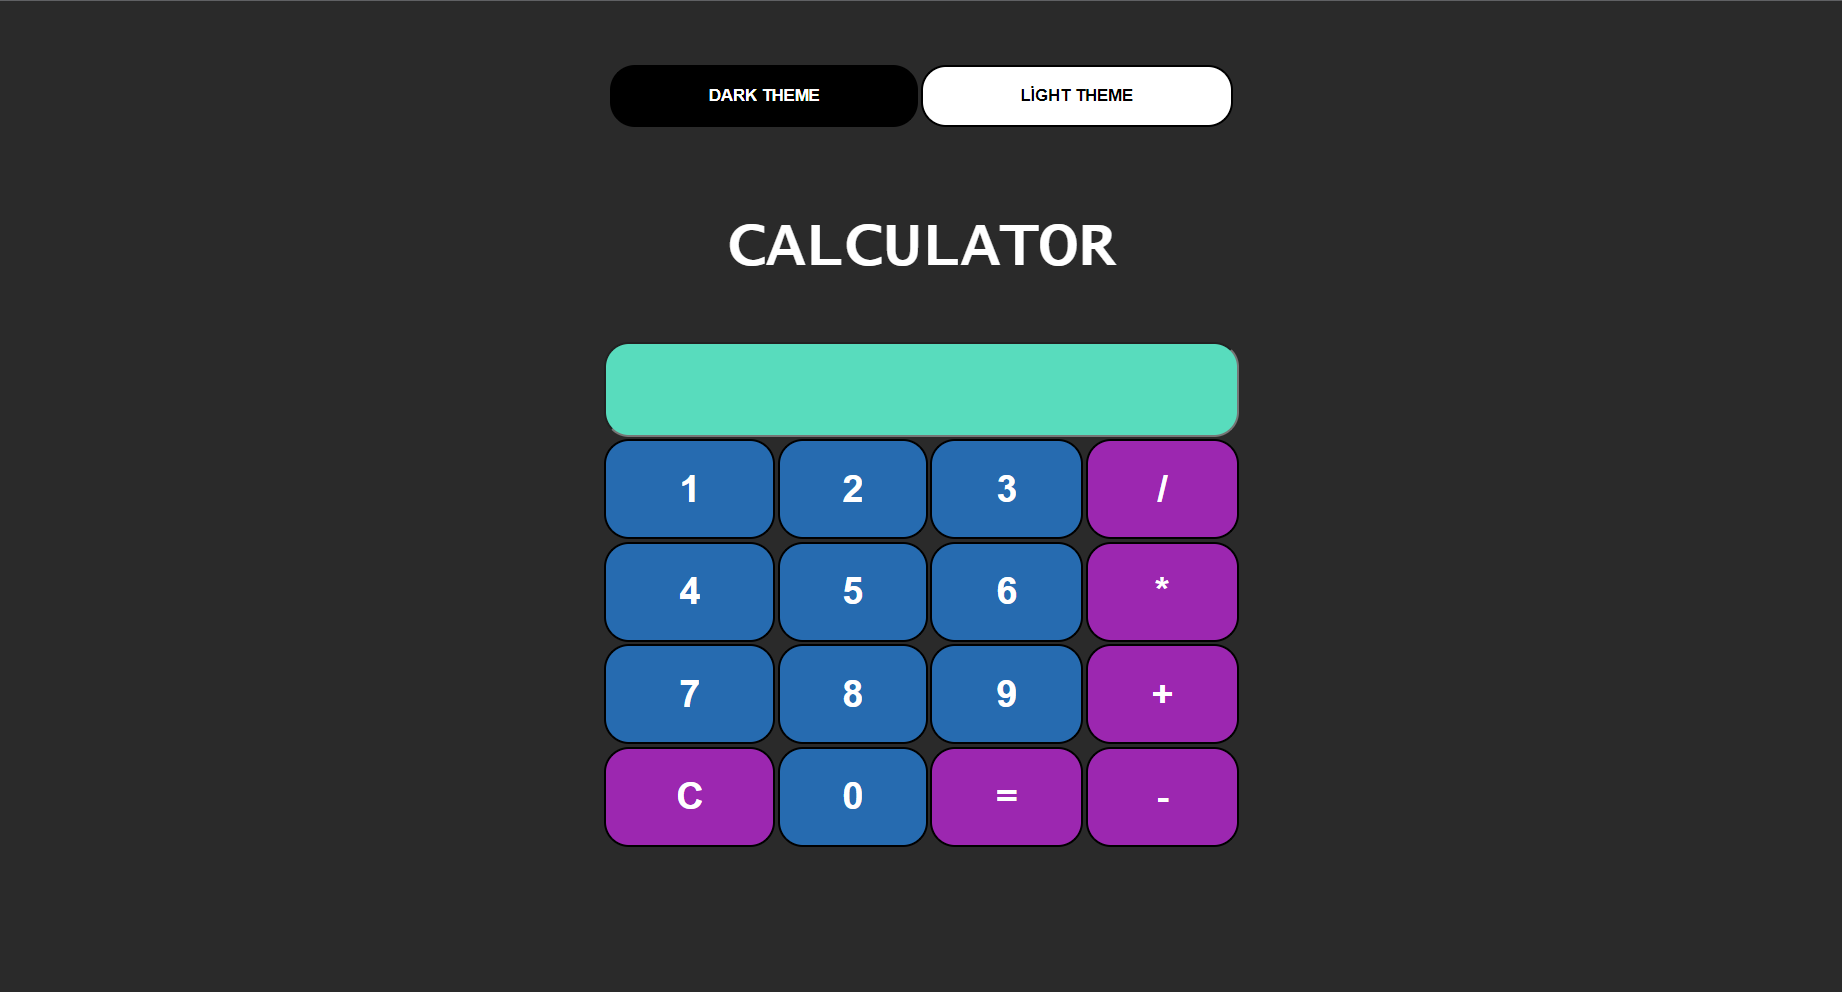
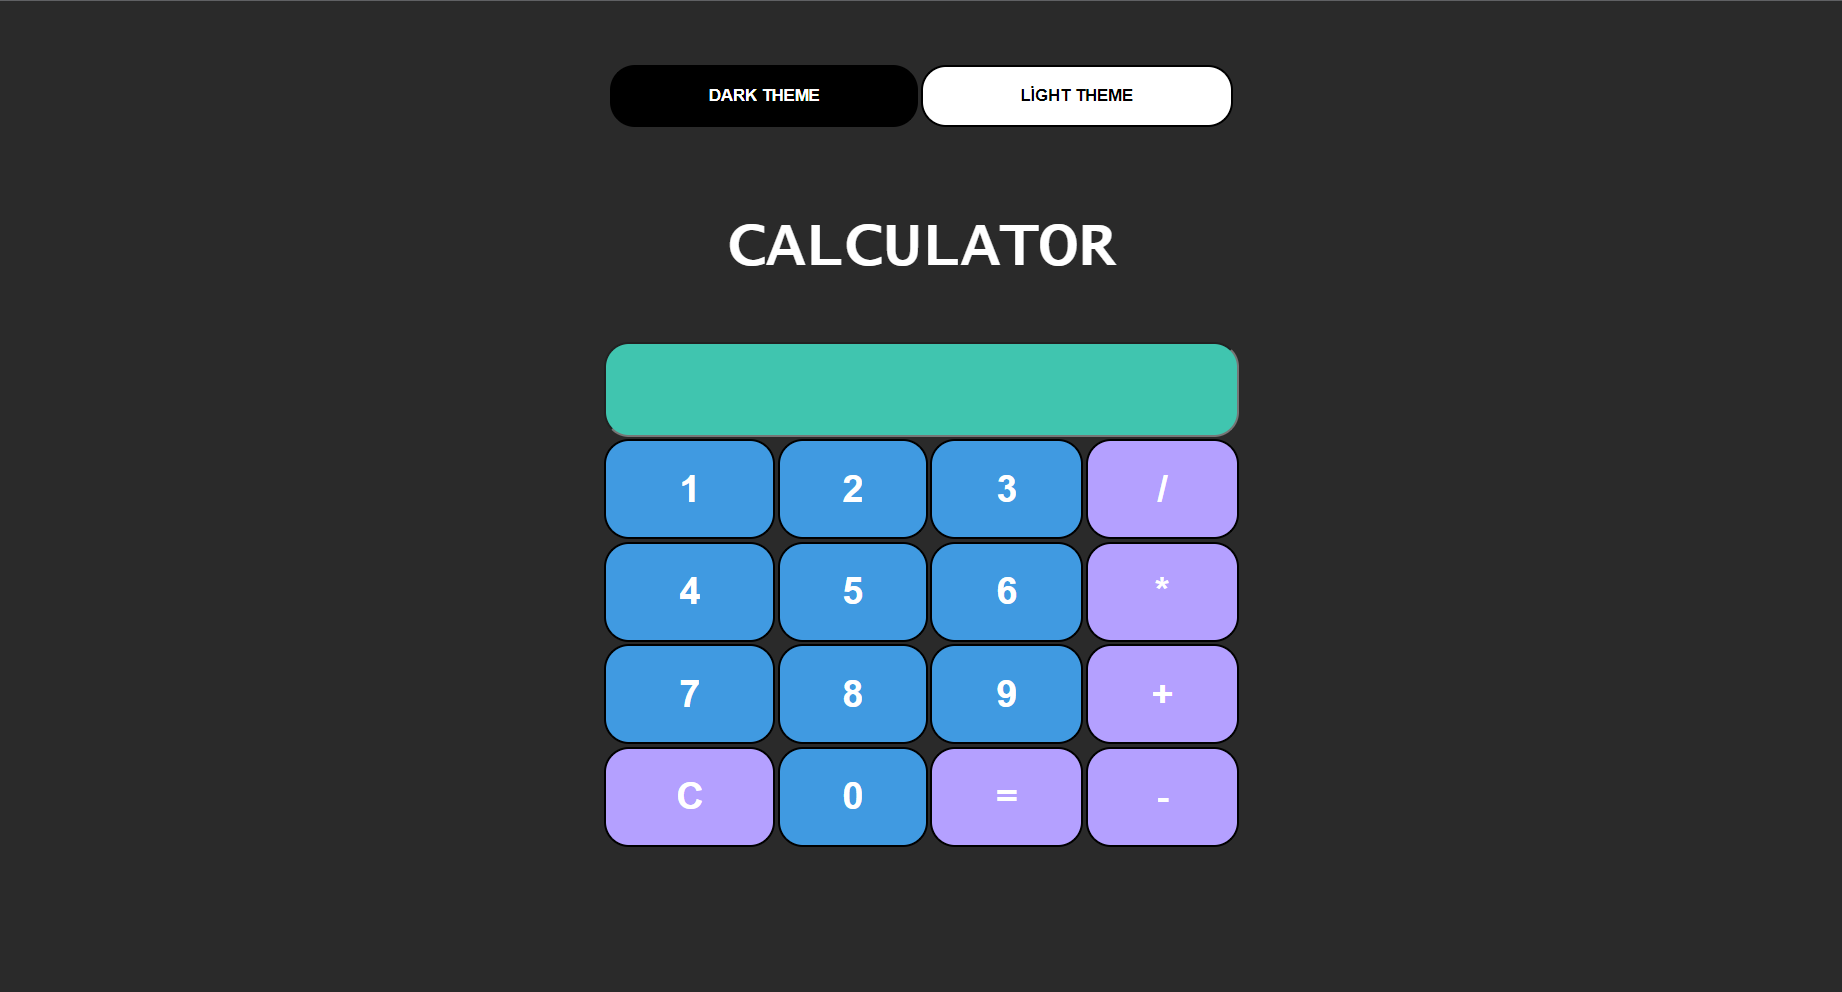
files updated

Changed region(s): [[0.3094, 0.4375, 0.6808, 0.875]]

diff --git a/app.js b/app.js
@@ -1,6 +1,6 @@
-function light(){
-    document.body.style.backgroundColor='white';
-    document.getElementById('title').style.color='black';
+function dark(){
+    document.body.style.backgroundColor='#2a2a2a';
+    document.getElementById('title').style.color='white';
     for (i=0 ; i<=5 ; i++)
     {
         document.getElementsByClassName('process')[i].style.backgroundColor= "#B4A0FF" ;
@@ -10,9 +10,9 @@ function light(){
     }
     document.getElementById('inputfield').style.backgroundColor="#40C5AF";
 }
-function dark(){
-    document.body.style.backgroundColor="#2a2a2a";
-    document.getElementById('title').style.color='white';
+function light(){
+    document.body.style.backgroundColor="white";
+    document.getElementById('title').style.color='black';
     for (i=0 ; i<=5 ; i++)
     {
         document.getElementsByClassName('process')[i].style.backgroundColor= "#9C27B0" ;

diff --git a/style.css b/style.css
@@ -6,7 +6,7 @@ body{
 .numbers{
     width: 100%;
     height: 80px;
-    background-color:#409AE1;
+    background-color:#266BB0;
     font-weight: bold;
     font-size: 30px;
     color: white;
@@ -14,7 +14,7 @@ body{
 .process{
     width: 100%;
     height: 80px;
-    background-color:#B4A0FF;
+    background-color:#9C27B0;
     font-weight: bold;
     font-size: 30px;
     color: white;
@@ -41,7 +41,7 @@ h1{
 #inputfield{
     width: 500px; 
     height:70px; 
-    background-color:#40C5AF;
+    background-color:#58DCBD;
     font-weight: bold; 
     font-size: 30px; 
     border-radius: 20px;
